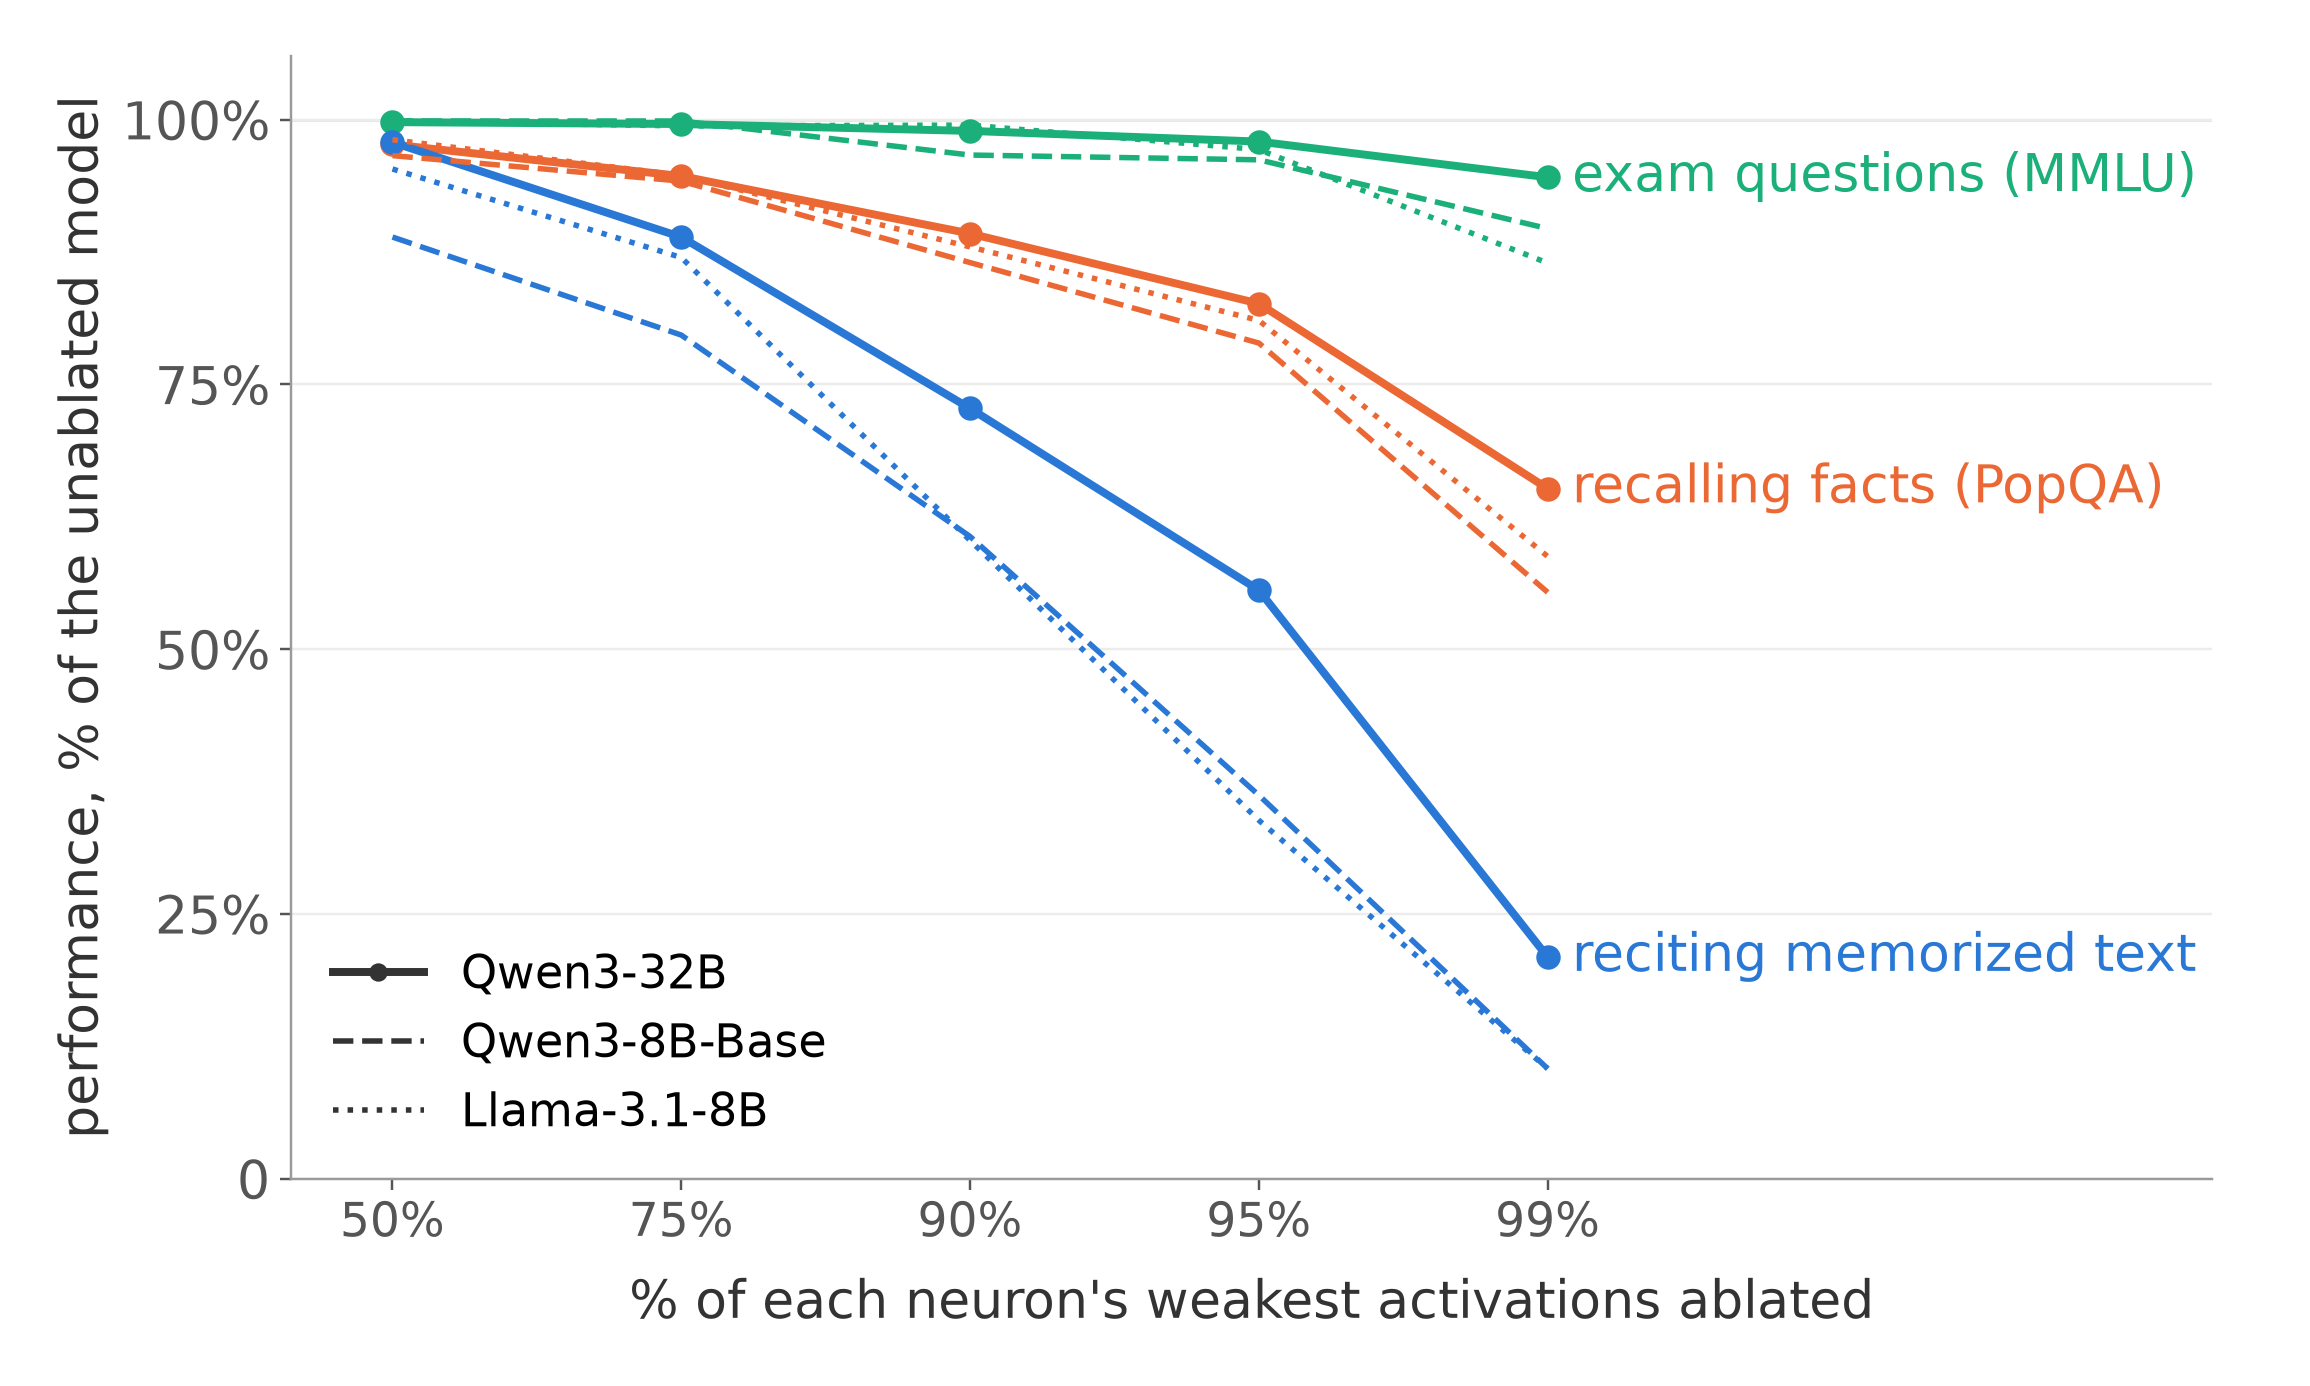
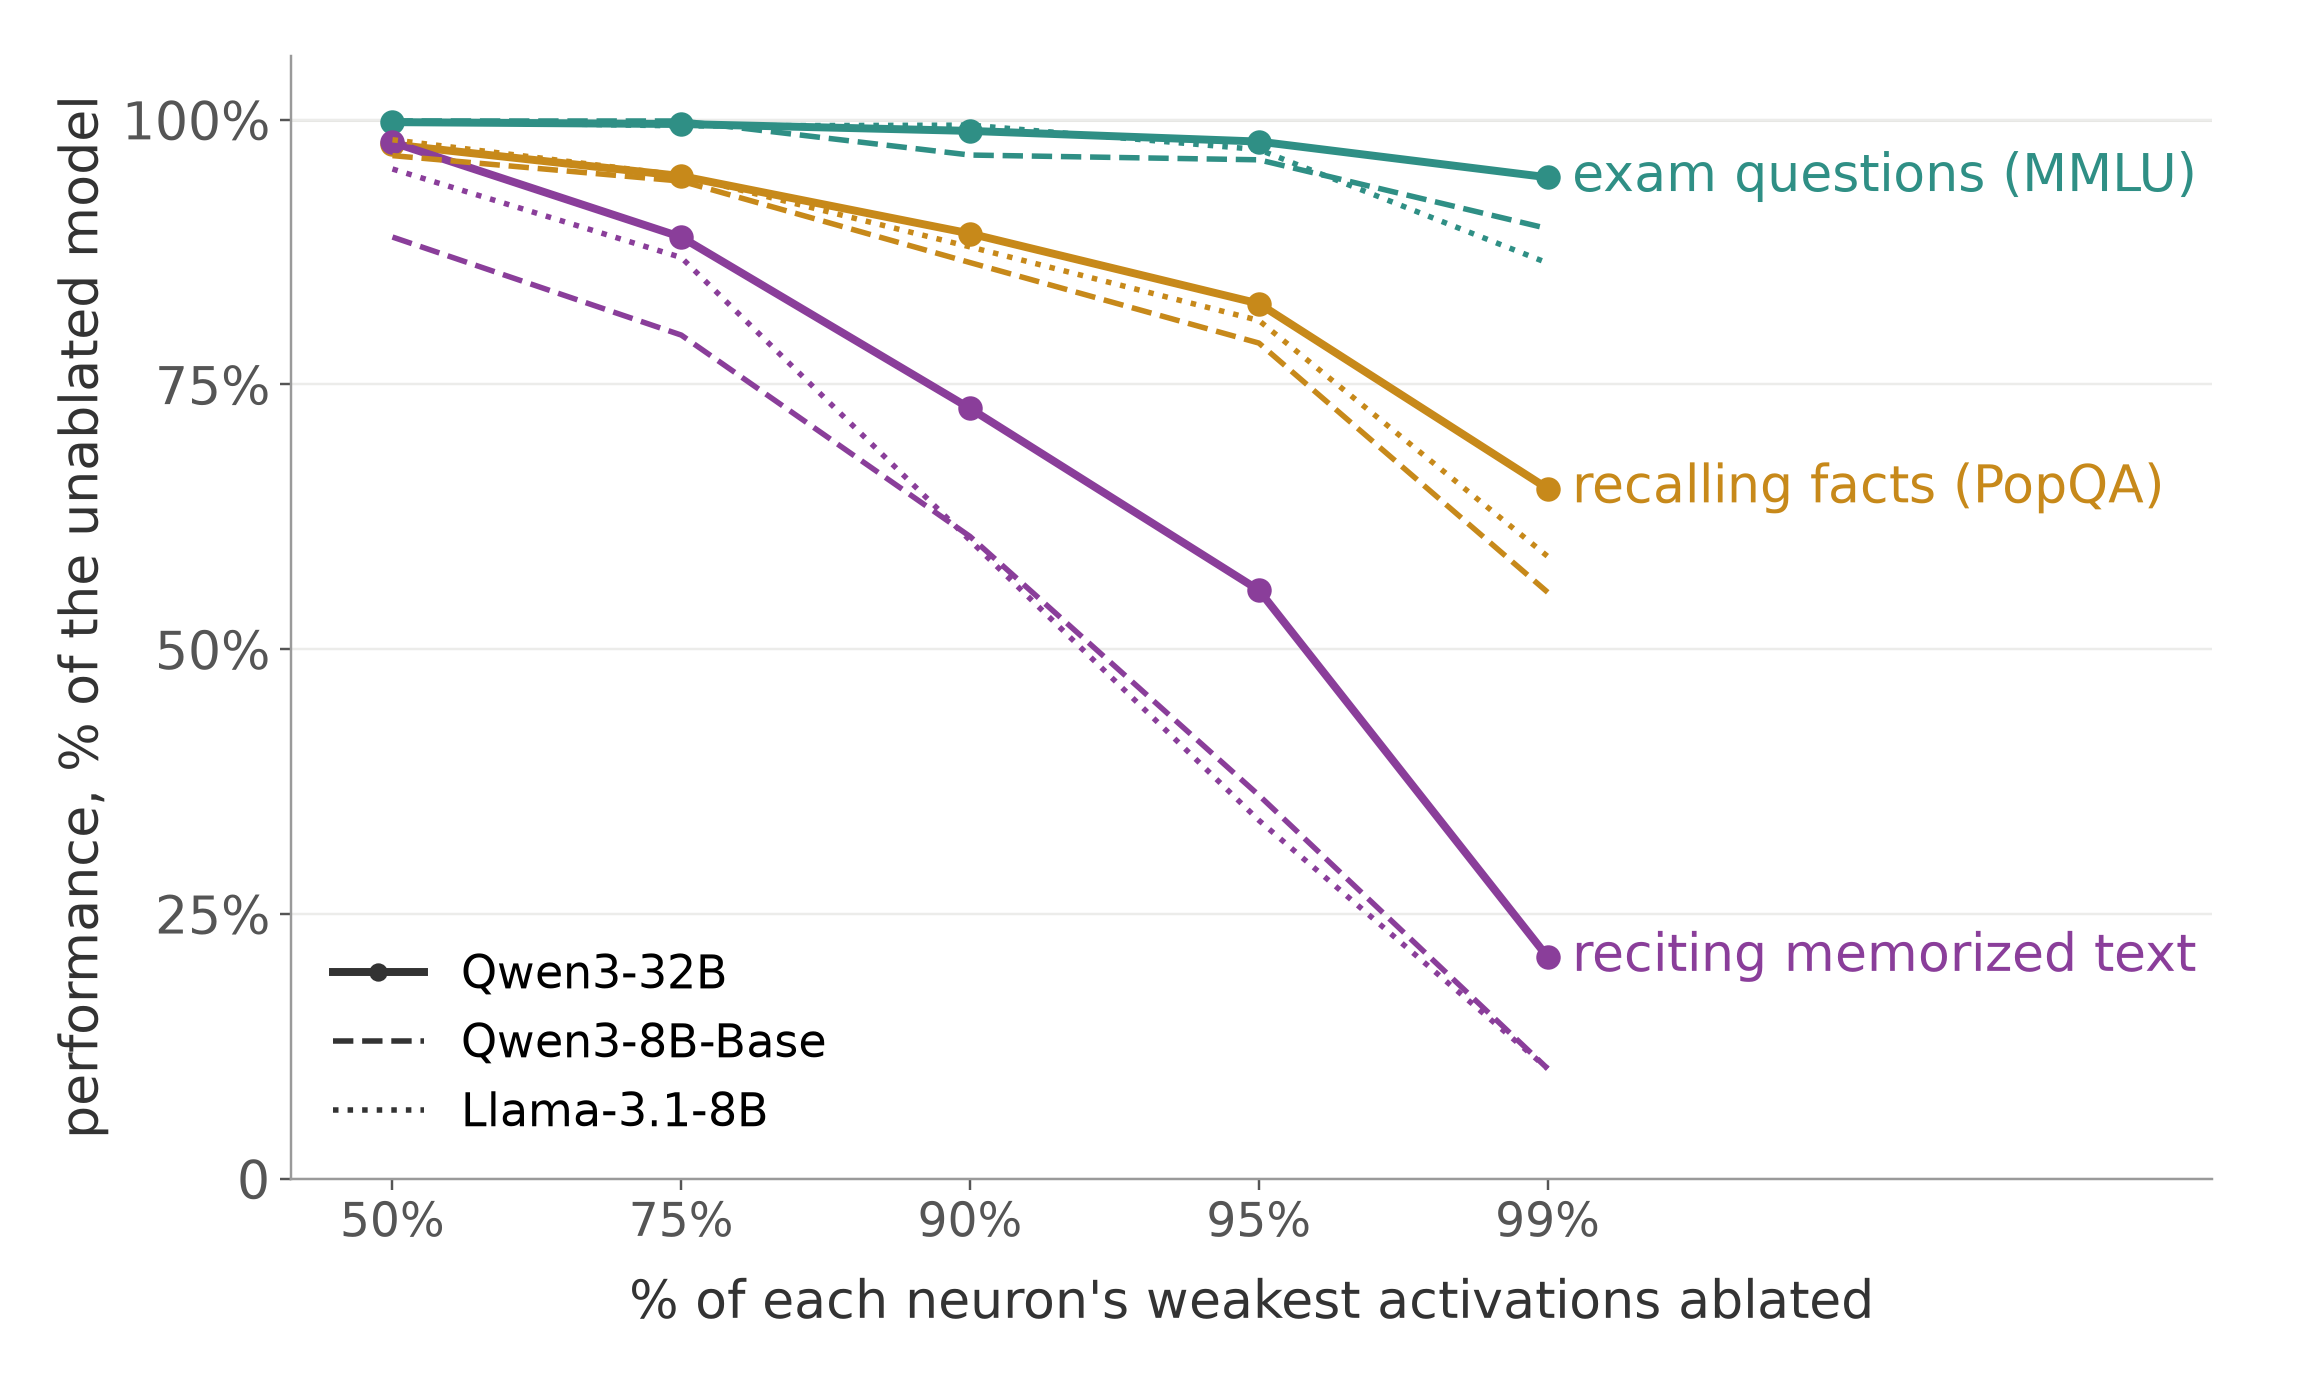
Colour variant: teal / goldenrod / plum palette

diff --git a/src/fig_tweet_all.py b/src/fig_tweet_all.py
@@ -17,7 +17,7 @@ plt.rcParams.update({'font.size': 17, 'axes.spines.top': False, 'axes.spines.rig
 MODELS = [('qwen3_32b', 'Qwen3-32B', '-', 2.6), ('qwen3_8b_base', 'Qwen3-8B-Base', '--', 1.8), ('llama31_8b', 'Llama-3.1-8B', ':', 1.8)]
 import sys
 COLOR = os.environ.get('PALETTE', '') == 'color'   # PALETTE=color: three full-strength hues instead of blue + two greys
-C_EXAM, C_FACT, C_MEM = ('#1baf7a', '#eb6834', '#2a78d6') if COLOR else (GREY2, GREY, ACC)
+C_EXAM, C_FACT, C_MEM = ('#2f8f85', '#c7891a', '#8a3e9a') if COLOR else (GREY2, GREY, ACC)   # teal, goldenrod, plum
 TASKS_ALL = [('mmlu', C_EXAM, 'exam questions (MMLU)'), ('popqa', C_FACT, 'recalling facts (PopQA)'), ('mem_tokmatch', C_MEM, 'reciting memorized text')]
 TASKS = [t for t in TASKS_ALL if t[0] in (sys.argv[1].split(',') if len(sys.argv) > 1 else ['mmlu', 'popqa', 'mem_tokmatch'])]
 OUT = ('tweet_retention_all' if len(sys.argv) < 2 else 'tweet_retention_all_' + '_'.join(sys.argv[1].split(','))) + ('_color' if COLOR else '') + '.png'
